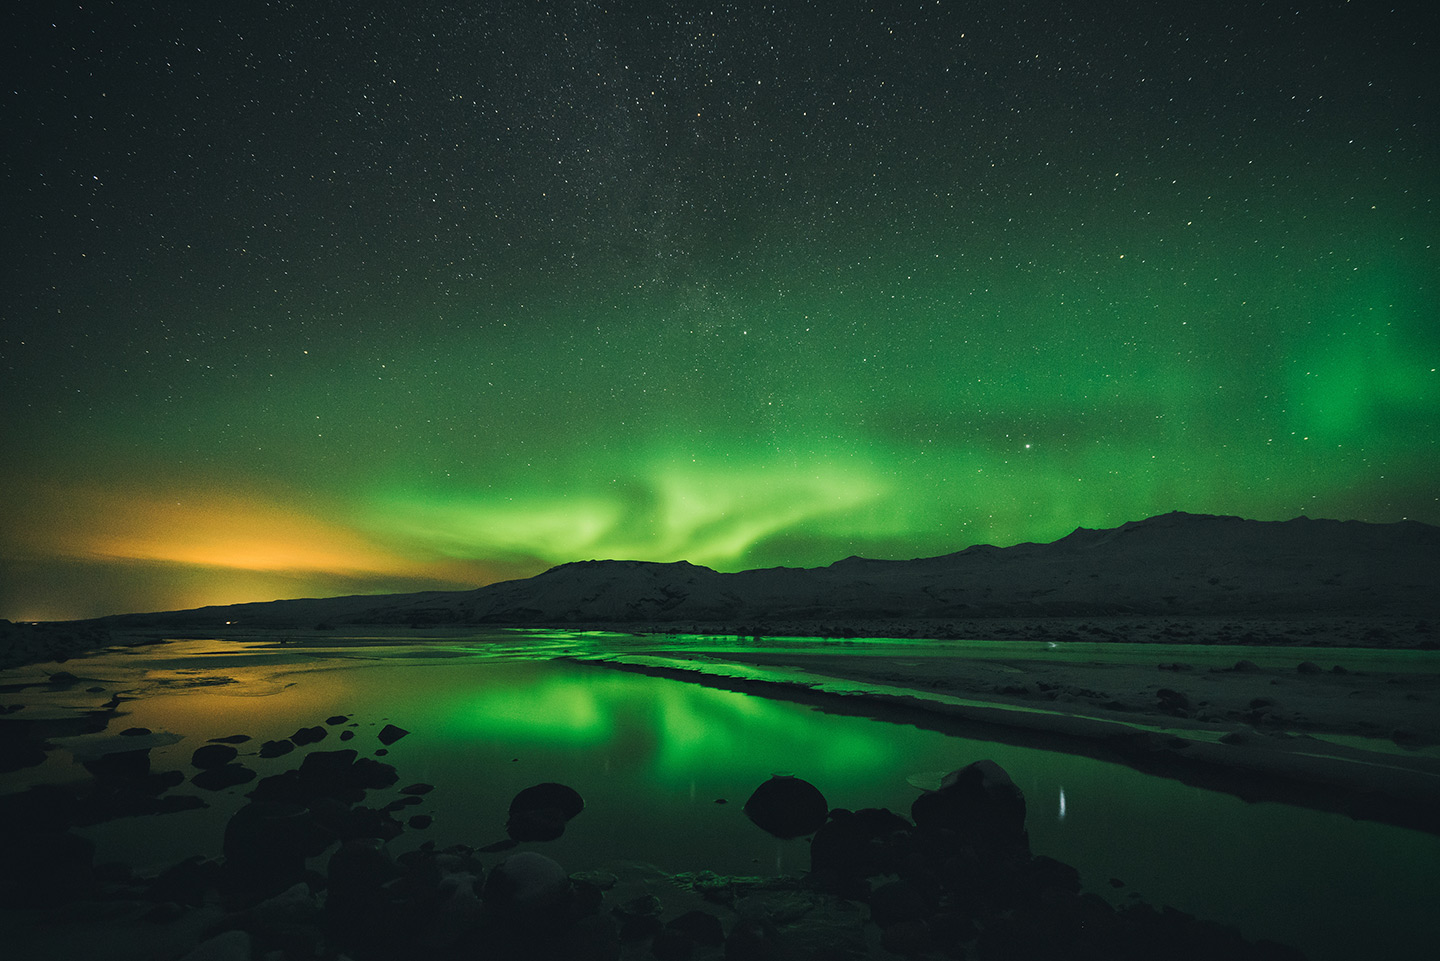
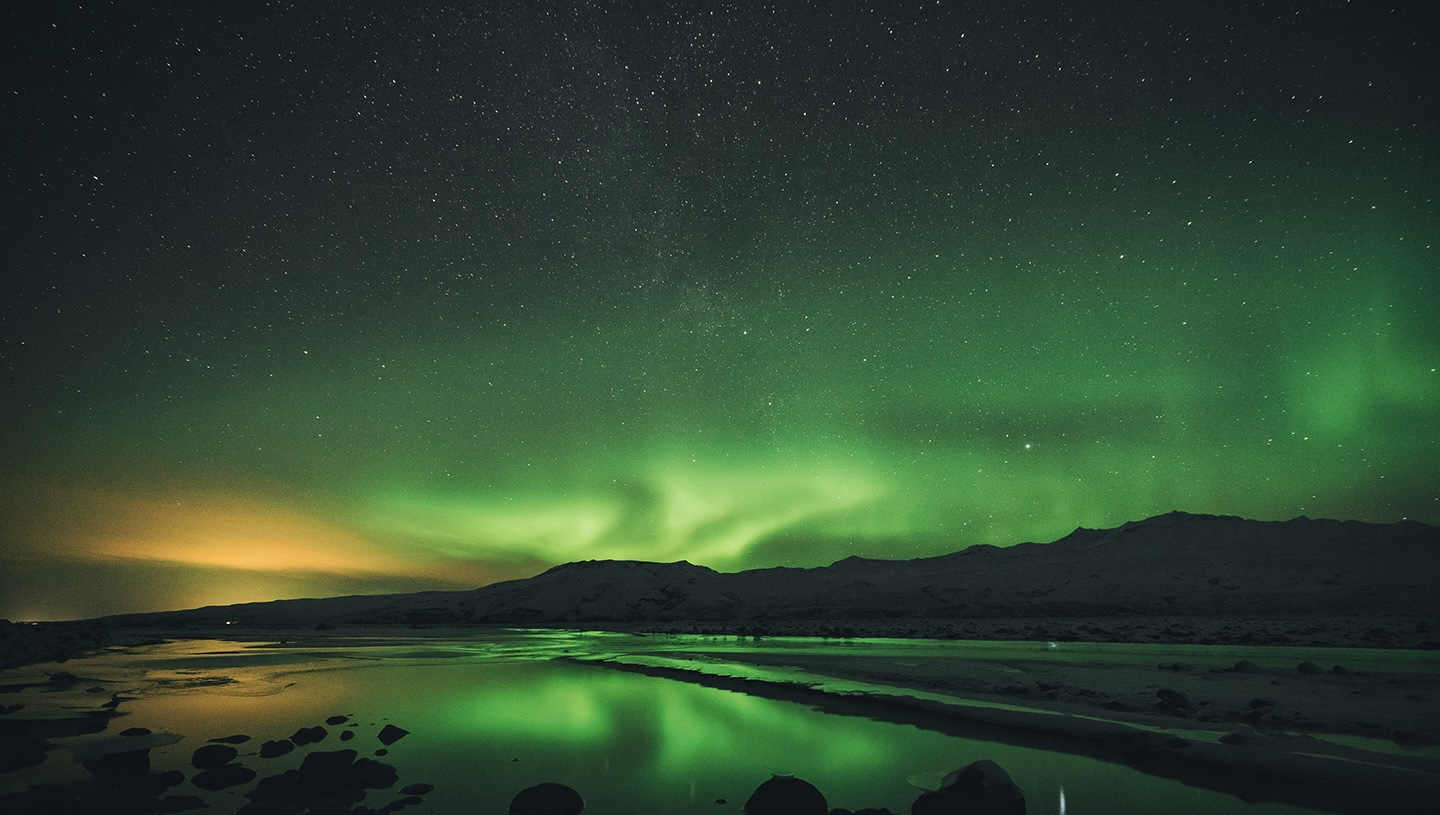
update both

diff --git a/style.css b/style.css
@@ -28,23 +28,25 @@ body{
 
 .main-image img{
     width: 100%;
-    height: 100vh;
+    height: 100%;
     object-fit: cover;
+    background-position: cover;
     position: relative;
     z-index: 0;
-    filter: grayscale(30);
-    opacity: 50%;
+    filter: grayscale(90%);
+    opacity: 80%;
     /* border: 1px solid white; */
 }
 .water{
-    position: relative;
+    /* position: relative; */
     width: 100%;
-    height: 15vh;
+    height: 15%;
     background-color: #0c0c0c0a;
     overflow: hidden;
     opacity: 80%;
     position: absolute;
-    bottom: -5px;
+    bottom: 0px;
+    /* border: 1px solid red; */
 }
 .water .wave {
     position: absolute;
@@ -205,6 +207,7 @@ body{
             border-radius: 20px;
         }
     }
+
 } 
 
 @media (min-width: 426px) and (max-width: 768px) {
